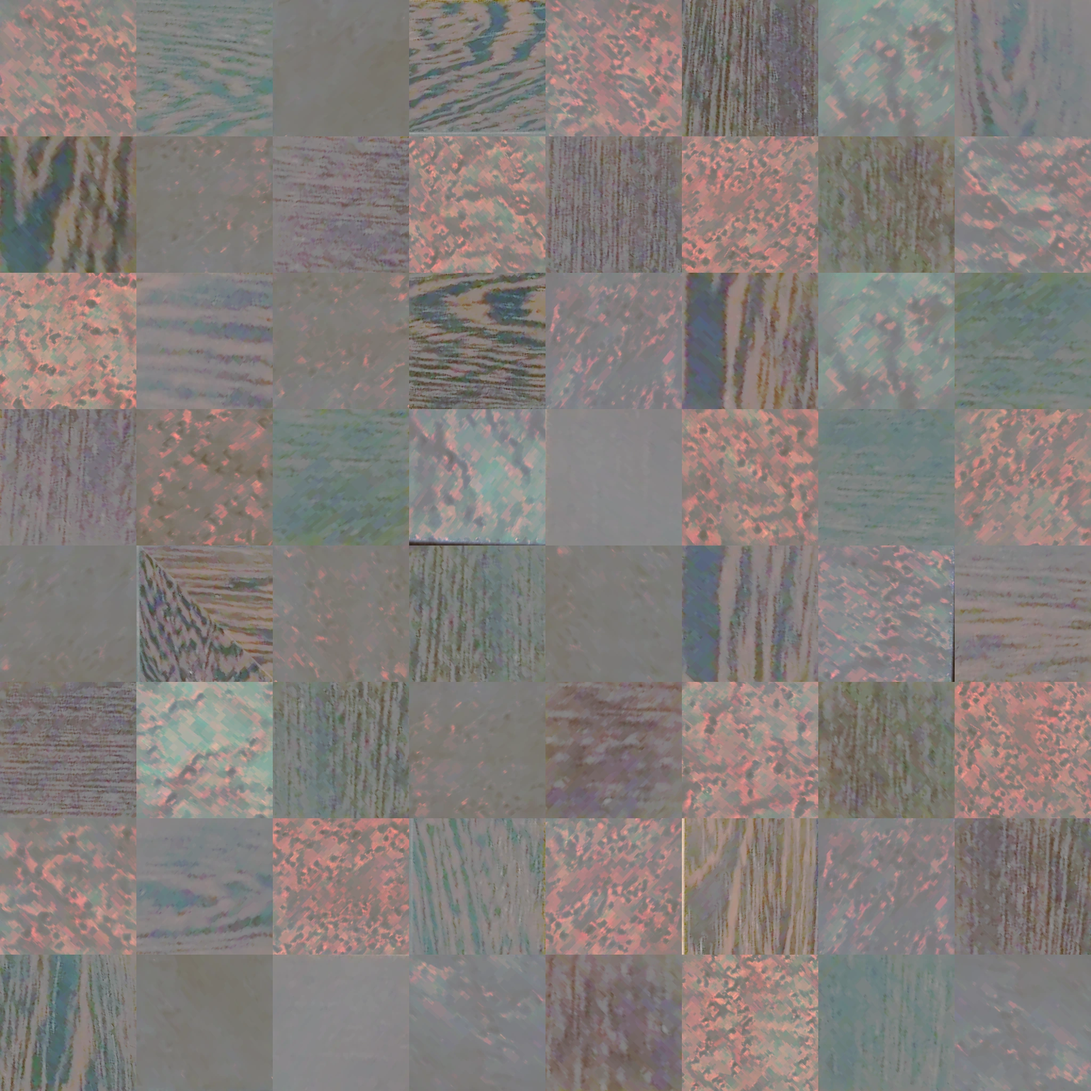
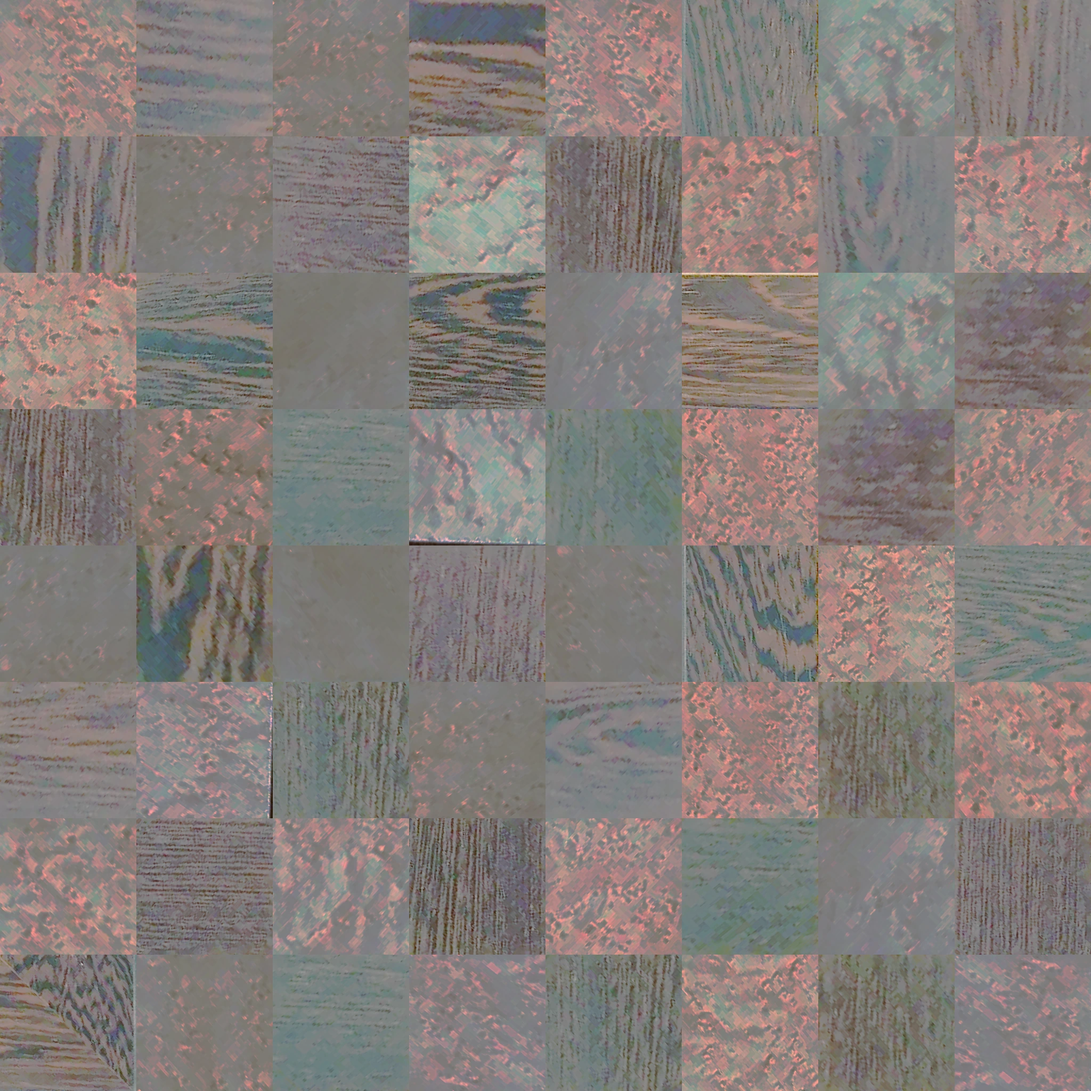
Take each board photograph's own blur back off
The photographs are the limit on how sharp a square can be, so the blur in
them is worth measuring rather than living with. A square boundary is a step
between two levels at a place the grid already knows exactly, so the light
sampled across every boundary in frame -- hundreds of them -- gives the
photograph's own blur with no lens model, no test chart and nothing set by
eye (focus.py). Richardson-Lucy then takes back the part of it that is not
the pixel grid's own: Gaussians add in quadrature, so that part is the
measured width with one pixel taken out of it, and nothing is asked of a
photograph that it could not have recorded.

It runs on the six photographs measurably softer than a pixel, which read
1.05 to 1.26 px at their boundaries and 0.94 to 1.04 after; the others were
already at the limit and are left alone. A square's lightness still spreads
0.7 to 7.4 L*, which is what a real board spreads.

No model sharpens these squares. Real-ESRGAN, tried on four of them, reads a
wood's figure as noise and smooths it away, and a generative model would
draw grain the board doesn't have -- a worse texture, and a claim the
license could not make.

diff --git a/src/content/packs/materials.ts b/src/content/packs/materials.ts
@@ -11,15 +11,15 @@ export const MATERIALS = 'materials';
 
 const COLORS: Readonly<Record<(typeof TEXTURES)[number]['id'], readonly [string, string]>> = {
   'burl-gloss': ['#f9d09b', '#6c3c27'],
-  burl: ['#d6a978', '#5f3826'],
-  vavona: ['#d7ac7e', '#80402b'],
+  burl: ['#d5a877', '#5f3726'],
+  vavona: ['#d6ab7d', '#803f2b'],
   cocobolo: ['#f6c68f', '#6e0c05'],
-  amboyna: ['#f9c991', '#b5430f'],
-  olmo: ['#ecd9b2', '#91401d'],
-  padauk: ['#f6cb98', '#b91905'],
-  palisander: ['#efbc88', '#4a2d24'],
-  pomelle: ['#fad9ab', '#c04512'],
-  portoro: ['#eef1eb', '#39362d'],
+  amboyna: ['#f9c890', '#b6430e'],
+  olmo: ['#ebd9b2', '#903f1c'],
+  padauk: ['#f6cc98', '#b91905'],
+  palisander: ['#efbb88', '#482c22'],
+  pomelle: ['#fad9ab', '#bf4411'],
+  portoro: ['#eef1eb', '#39362e'],
   marble: ['#f7f5ef', '#636b77'],
   terrazzo: ['#efebe6', '#3f49a7'],
   slate: ['#d0ccc1', '#545f6c'],

diff --git a/tools/board-materials/focus.py b/tools/board-materials/focus.py
@@ -1,0 +1,121 @@
+"""What a photograph's own blur is, and how much of it can be taken back off.
+
+A square boundary is a step between two levels, at a place the grid already knows
+exactly. So the light sampled across it -- over the whole length of every boundary in
+frame, hundreds of them, which is what makes the reading steady -- gives the photograph's
+own blur with nothing assumed and nothing set by eye: no lens model, no test chart, and no
+guess at how sharp the camera was.
+
+Richardson-Lucy then takes that blur back off, and stops where the boundaries say there is
+no blur left to take. That stopping rule is the whole point. Run past its own evidence, a
+deconvolution turns the grain of a wood into gravel and a square's JPEG blocks into a
+quilt; stopped by it, what comes out is what the photograph saw.
+
+Nothing here invents detail. A model that paints plausible grain where the photograph has
+none would look sharper still and would not be the board: tried on these squares,
+Real-ESRGAN read a wood's figure as noise and smoothed it away.
+"""
+
+import cv2
+import numpy as np
+from scipy import ndimage, optimize, special
+
+# Where to sample across a boundary, in pixels, and how far along it to stay away from the
+# corners, where two boundaries meet and neither is a clean step.
+REACHES = np.linspace(-4, 4, 33)
+ALONG = np.linspace(0.12, 0.88, 12)
+
+# A step cannot be recorded sharper than the grid that recorded it: at one pixel of width
+# there is one sample across the edge, which is the limit of what the photograph holds.
+# Deconvolving past it recovers nothing that was ever there and amplifies the grain in its
+# place, which shows up as a square's lightness spreading further than the real board's.
+SHARP = 1.0
+# Richardson-Lucy rounds. The first two take back most of the measured width and the
+# fourth takes back the rest of what shows; past that the boundaries stop getting sharper
+# and the darkest woods, where a photograph's JPEG blocks have the least signal to hide
+# behind, start to read as a quilt at 45 degrees.
+ROUNDS = 4
+
+
+def sampled(glow, place, rows, columns):
+    """The light across every inner boundary of the grid, a row per place along one."""
+    height, width = glow.shape
+    lines = []
+    for row in range(1, rows + 1):
+        for column in range(1, columns + 1):
+            # The boundary left of this corner, then the one above it: both axes, so a
+            # blur longer one way than the other is read as what it is.
+            lines.append(([column, column], [row - 1, row], [0.04, 0]))
+            lines.append(([column - 1, column], [row, row], [0, 0.04]))
+    profiles = []
+    for (left, right), (top, bottom), step in lines:
+        walk = [(left + (right - left) * t, top + (bottom - top) * t) for t in ALONG]
+        at = place(walk)
+        past = place([(x + step[0], y + step[1]) for x, y in walk])
+        ways = (past - at) / np.maximum(np.hypot(*(past - at).T), 1e-9)[:, None]
+        for base, way in zip(at, ways, strict=True):
+            spots = base + np.outer(REACHES, way)
+            off = (spots[:, 0] > width - 2).any() or (spots[:, 1] > height - 2).any()
+            if spots.min() < 1 or off:
+                continue
+            profiles.append(
+                cv2.remap(
+                    glow.astype(np.float32),
+                    spots[:, 0].astype(np.float32).reshape(-1, 1),
+                    spots[:, 1].astype(np.float32).reshape(-1, 1),
+                    cv2.INTER_LINEAR,
+                ).ravel()
+            )
+    return np.array(profiles)
+
+
+def blurred(profile):
+    """The width of the Gaussian that turns a step into this profile, and the step's own
+    height, which says whether a step is what was sampled at all."""
+
+    def model(reach, low, high, middle, sigma):
+        return low + (high - low) * 0.5 * (1 + special.erf((reach - middle) / (sigma * np.sqrt(2))))
+
+    fit, _ = optimize.curve_fit(
+        model, REACHES, profile, p0=(profile[0], profile[-1], 0.0, 1.0), maxfev=20000
+    )
+    return abs(fit[3]), abs(fit[1] - fit[0])
+
+
+def width(profiles):
+    """How far this photograph smears a step, in pixels: the median over every boundary it
+    showed, counting only the ones that read as a step at all."""
+    widths = []
+    for profile in profiles:
+        try:
+            spread, step = blurred(profile)
+        except RuntimeError:
+            continue
+        if 0.05 < spread < 4 and step > 0.01:
+            widths.append(spread)
+    return float(np.median(widths)) if len(widths) >= 20 else None
+
+
+def lucy(linear, sigma, rounds):
+    """Richardson-Lucy against a Gaussian of `sigma`, in light, where a blur is a blur:
+    done on the sRGB values instead it would darken every edge it sharpened."""
+    observed = np.maximum(linear, 1e-7)
+    estimate = observed.copy()
+    for _ in range(rounds):
+        blur = np.maximum(ndimage.gaussian_filter(estimate, (sigma, sigma, 0)), 1e-7)
+        estimate = estimate * ndimage.gaussian_filter(observed / blur, (sigma, sigma, 0))
+        estimate = np.clip(estimate, 0, estimate.max())
+    return estimate
+
+
+def unblurred(linear, place, rows, columns, luma):
+    """`linear` with its own blur taken off, and how sharp its square boundaries read
+    before and after. Only the part of the blur that is not the pixel grid's own is taken:
+    Gaussians add in quadrature, so that part is what is left of the measured width once
+    one pixel is taken out of it, and nothing is asked of the photograph that it could not
+    have recorded."""
+    blur = width(sampled(linear @ luma, place, rows, columns))
+    if blur is None or blur <= SHARP:
+        return linear, blur, blur
+    sharpened = lucy(linear, float(np.sqrt(blur**2 - SHARP**2)), ROUNDS)
+    return sharpened, blur, width(sampled(sharpened @ luma, place, rows, columns))

diff --git a/tools/board-materials/photo.py b/tools/board-materials/photo.py
@@ -39,6 +39,7 @@ from typing import NamedTuple
 
 import cv2
 import numpy as np
+from focus import unblurred
 from PIL import Image
 
 from drawing import (
@@ -273,7 +274,12 @@ def harvested(paths):
                 f'{across:.0f} px to a square, too far to trust, left out'
             )
             continue
-        found = squared(photo, place, rows, columns)
+        # Its own blur comes off before anything is read off it or cut out of it, measured
+        # on the square boundaries themselves (focus.py). A square is only 50 to 300 pixels
+        # across in these photographs where a texture wants 256, so the blur is the whole
+        # difference between a grain one can see and a smudge.
+        lit, blur, sharp = unblurred(to_light(photo), place, rows, columns, LUMA)
+        found = squared(np.clip(from_light(lit), 0, 255).astype(np.uint8), place, rows, columns)
         read = levelled(found, place, rows, columns) if found else None
         if not read:
             print(f'{Path(path).name}: only one face of the board in frame, left out')
@@ -290,7 +296,7 @@ def harvested(paths):
                     f'{casts[True].round(3)}, which no exposure explains, left out'
                 )
                 continue
-        evened = np.clip(from_light(to_light(photo) * gain + offset), 0, 255).astype(np.uint8)
+        evened = np.clip(from_light(lit * gain + offset), 0, 255).astype(np.uint8)
         # The faces as the evened photograph shows them, not as it was shot: the tiles a
         # square is tested against come out of `evened`, so the two must be on one scale.
         faces = {dark: faced(gain * casts[dark] + offset) for dark in (False, True)}
@@ -312,7 +318,8 @@ def harvested(paths):
         print(
             f'{Path(path).name}: {rows}×{columns} corners to {apart:.1f} px, {kept} of '
             f'{len(found)} squares kept whole, {across:.0f} px across, its channels '
-            f'×{np.round(gain, 2)} {np.round(offset, 3)}'
+            f'×{np.round(gain, 2)} {np.round(offset, 3)}, its square boundaries '
+            + (f'{blur:.2f} px wide, {sharp:.2f} once unblurred' if blur else 'too few to read')
         )
     return harvest
 

diff --git a/docs/architecture.md b/docs/architecture.md
@@ -216,14 +216,16 @@ extension URL can only be written in the CSS, so each texture is a variable
 there (`styles/board/textures.css`) that the content script names. Ten of the
 textures are not drawn at all: the nine woods and the Portoro each reproduce
 one real board the project holds the photographs of, cut out of them square by
-square (`photo.py`, `rectify.py`). The chequerboard calibrates its own
-rectification — the corners where four squares meet give the perspective and
-the lens together, so a photograph needs no ruler and no lens model — every
-square is cut from whichever photograph shows it largest, the photographs are
-put on one scale by the board's own two colors, and the 32 kept per shade span
-the whole range of how figured that board's squares are, rather than the 32
-best resolved, which would all come from the close-ups and be the plainest.
-Each tile is laid turned any quarter, as the makers lay a real board.
+square (`photo.py`, `rectify.py`, `focus.py`). The chequerboard calibrates
+everything itself: the corners where four squares meet give the perspective
+and the lens together, so a photograph needs no ruler and no lens model, and
+the boundaries between squares, being steps between two known levels, give its
+blur, which `focus.py` takes back off as far as the pixel grid allows and no
+further. Every square is cut from whichever photograph shows it largest, the
+photographs are put on one scale by the board's own two colors, and the 32 kept
+per shade span the whole range of how figured that board's squares are, rather
+than the 32 best resolved, which would all come from the close-ups and be the
+plainest. Each tile is laid turned any quarter, as the makers lay a real board.
 
 ## Styles
 

diff --git a/AGENTS.md b/AGENTS.md
@@ -263,9 +263,15 @@ What each feature folder holds is listed in
   which needs OpenCV. The chequerboard is its own calibration target, so the
   squares are rectified on the corners where four of them meet, each square is
   kept from whichever photograph shows it largest, the photographs are put on
-  one scale by the board's own two colors, and what is not the board is told
-  from it by how far from neutral it runs, in whichever direction (a grey cloth
-  under a wood board, a wooden table under the marble). Only for photographs
+  one scale by the board's own two colors, what is not the board is told from
+  it by how far from neutral it runs, in whichever direction (a grey cloth
+  under a wood board, a wooden table under the marble), and each photograph's
+  own blur is measured on its square boundaries and taken back off
+  (`focus.py`), as far as the pixel grid allows and no further. Don't reach for
+  a model to sharpen them: tried on these squares, super-resolution read a
+  wood's figure as noise and smoothed it away, and a generative model would
+  draw grain the board doesn't have, which is both a worse texture and a claim
+  the license can't make. Only for photographs
   the project holds the rights to, whose license goes in `public/licenses/` and
   which names every texture cut from them — nothing of another chess site's,
   ever (see the product rules). Read what it prints: how many squares each
